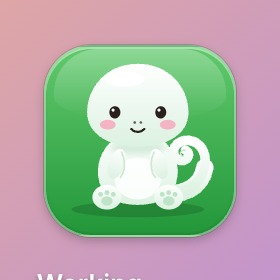
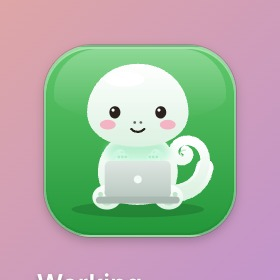
Spec 016: the gecko types at a little laptop, and waits impatiently
Working, it sits at a tiny laptop low in front of it, paws on the keys in turn, nodding and now and then glancing at the screen. Waiting, now and then a slow blink and a burst of foot taps with a small sway, so it says it waits for you without moving all the time.

Changed region(s): [[0.3429, 0.5143, 0.6571, 0.7429]]

diff --git a/client/src/renderer/src/gecko/Gecko.tsx b/client/src/renderer/src/gecko/Gecko.tsx
@@ -42,6 +42,16 @@ function Sole({ x, y }: { readonly x: number; readonly y: number }): React.JSX.E
   )
 }
 
+/** A paw on the laptop's keys, seen over the lid while it types. */
+function Typing({ x, skin }: { readonly x: number; readonly skin: string }): React.JSX.Element {
+  return (
+    <g className="gk-typing">
+      <circle cx={x} cy="64.4" r="3.1" fill="#fff" />
+      {[-1.6, 0, 1.6].map((dx) => <circle key={dx} cx={x + dx} cy="63.2" r="0.6" fill={PAD} />)}
+    </g>
+  )
+}
+
 /** The gecko in the soft, flat style of its reference: white with a mint tint, no outlines, dot eyes, pink blush. Sitting for working, waiting and review; lying on its belly asleep. Each part moves on its own. */
 function Drawing(): React.JSX.Element {
   const id = useId().replace(/[^\w-]/g, '')
@@ -54,6 +64,10 @@ function Drawing(): React.JSX.Element {
         <linearGradient id={`${id}-skin`} x1="0" y1="0" x2="0" y2="1">
           <stop offset="0" stopColor="#ffffff" />
           <stop offset="1" stopColor="#dcf1e1" />
+        </linearGradient>
+        <linearGradient id={`${id}-lid`} x1="0" y1="0" x2="0" y2="1">
+          <stop offset="0" stopColor="#dfe7e3" />
+          <stop offset="1" stopColor="#b9c7c0" />
         </linearGradient>
         <filter id={`${id}-soft`} x="-30%" y="-30%" width="160%" height="160%">
           <feGaussianBlur stdDeviation="1.4" />
@@ -77,16 +91,26 @@ function Drawing(): React.JSX.Element {
                   <g>
                     <ellipse cx="36" cy="81.5" rx="6.6" ry="5.6" fill={skin} />
                     <Sole x={36} y={82} />
-                    <ellipse cx="64" cy="81.5" rx="6.6" ry="5.6" fill={skin} />
-                    <Sole x={64} y={82} />
+                    <g className="gk-heel">
+                      <ellipse cx="64" cy="81.5" rx="6.6" ry="5.6" fill={skin} />
+                      <Sole x={64} y={82} />
+                    </g>
                   </g>
                   <g className="gk-foot gk-foot-l">
                     <ellipse cx="40.4" cy="66.4" rx="3.6" ry="7" fill={skin} transform="rotate(18 40.4 66.4)" />
                     <path d="M42.6 61 C 44.6 65, 44.4 70, 42 72.6" fill="none" stroke="#cfe8d5" strokeWidth="0.8" strokeLinecap="round" />
+                    <Typing x={43} skin={skin} />
                   </g>
                   <g className="gk-foot gk-foot-r">
                     <ellipse cx="59.6" cy="66.4" rx="3.6" ry="7" fill={skin} transform="rotate(-18 59.6 66.4)" />
                     <path d="M57.4 61 C 55.4 65, 55.6 70, 58 72.6" fill="none" stroke="#cfe8d5" strokeWidth="0.8" strokeLinecap="round" />
+                    <Typing x={57} skin={skin} />
+                  </g>
+                  <g className="gk-laptop">
+                    <ellipse cx="50" cy="61" rx="15" ry="6" fill="#9ff0c4" opacity="0.5" filter={soft} />
+                    <rect x="35" y="65" width="30" height="17" rx="2.6" fill={`url(#${id}-lid)`} />
+                    <circle cx="50" cy="73.4" r="1.8" fill="#f2fbf4" />
+                    <rect x="31" y="81.2" width="38" height="3.2" rx="1.6" fill="#a9b8b0" />
                   </g>
                   <g className="gk-head-pose">
                     <g className="gk-head-look">
@@ -148,6 +172,7 @@ export function GeckoPanel({
   moving = true,
   blinking = false,
   tilting = false,
+  tapping = false,
   hovering = false,
   pressing = false,
   look = { x: 0, y: 0 },
@@ -158,6 +183,8 @@ export function GeckoPanel({
   readonly moving?: boolean
   readonly blinking?: boolean
   readonly tilting?: boolean
+  /** Waiting: a burst of impatient taps of one foot. */
+  readonly tapping?: boolean
   readonly hovering?: boolean
   readonly pressing?: boolean
   readonly look?: Look
@@ -171,6 +198,7 @@ export function GeckoPanel({
     moving ? '' : 'gecko-still',
     blinking ? 'gecko-blink' : '',
     tilting ? 'gecko-tilt' : '',
+    tapping ? 'gecko-tapping' : '',
     hovering ? 'gecko-hover' : '',
     pressing ? 'gecko-press' : '',
   ].filter((one) => one !== '')
@@ -205,10 +233,11 @@ function useSeen(): boolean {
   return seen
 }
 
-/** A blink now and then while its eyes are open, sometimes with a tilt of the head: one short timer at a time, none while asleep or not seen. */
-function useFidget(awake: boolean): { readonly blinking: boolean; readonly tilting: boolean } {
+/** A blink now and then while its eyes are open, sometimes with a tilt of the head; waiting, a slow blink and now and then a burst of impatient foot taps. One short timer at a time, none while asleep or not seen. */
+function useFidget(awake: boolean, waiting: boolean): { readonly blinking: boolean; readonly tilting: boolean; readonly tapping: boolean } {
   const [blinking, setBlinking] = useState(false)
   const [tilting, setTilting] = useState(false)
+  const [tapping, setTapping] = useState(false)
   useEffect(() => {
     if (!awake) return
     let timer: ReturnType<typeof setTimeout>
@@ -216,16 +245,19 @@ function useFidget(awake: boolean): { readonly blinking: boolean; readonly tilti
       timer = setTimeout(
         () => {
           if (still()) return next()
-          const tilt = Math.random() < 0.35
+          const tilt = !waiting && Math.random() < 0.35
+          const tap = waiting && Math.random() < 0.6
           setBlinking(true)
           setTilting(tilt)
+          setTapping(tap)
           timer = setTimeout(() => {
             setBlinking(false)
             timer = setTimeout(() => {
               setTilting(false)
+              setTapping(false)
               next()
-            }, tilt ? 900 : 0)
-          }, 160)
+            }, tap ? 1000 : tilt ? 900 : 0)
+          }, waiting ? 420 : 160)
         },
         2500 + Math.random() * 4000,
       )
@@ -235,9 +267,10 @@ function useFidget(awake: boolean): { readonly blinking: boolean; readonly tilti
       clearTimeout(timer)
       setBlinking(false)
       setTilting(false)
+      setTapping(false)
     }
-  }, [awake])
-  return { blinking, tilting }
+  }, [awake, waiting])
+  return { blinking, tilting, tapping }
 }
 
 /** Where the cursor is from the gecko's eyes, as a look: the direction, weaker when it is close. */
@@ -258,7 +291,7 @@ export function Gecko(): React.JSX.Element | null {
   const [pressing, setPressing] = useState(false)
   const [look, setLook] = useState<Look>({ x: 0, y: 0 })
   const seen = useSeen()
-  const { blinking, tilting } = useFidget(seen && view !== undefined && view.pose !== 'asleep')
+  const { blinking, tilting, tapping } = useFidget(seen && view !== undefined && view.pose !== 'asleep', view?.pose === 'waiting')
   const held = useRef<{ x: number; y: number; left: number; top: number; moved: boolean } | undefined>(undefined)
 
   useEffect(() => {
@@ -335,6 +368,7 @@ export function Gecko(): React.JSX.Element | null {
         moving={seen}
         blinking={blinking}
         tilting={tilting}
+        tapping={tapping}
         hovering={hovering}
         pressing={pressing}
         look={look}

diff --git a/client/src/renderer/src/styles.css b/client/src/renderer/src/styles.css
@@ -12372,7 +12372,27 @@ button.manager-step-head:hover > svg {
   animation: gk-peek-shut 1.8s ease-in-out;
 }
 
-/* Working: sitting, its front paws tapping in turn as if typing, nodding to the beat, the tail swaying behind. */
+/* Working: at a little laptop in front of it, its paws on the keys in turn, nodding to the beat, now and then glancing down at the screen, the tail swaying behind. */
+.gk-laptop,
+.gk-typing {
+  opacity: 0;
+  transition: opacity 300ms;
+}
+
+.gecko-working .gk-laptop,
+.gecko-working .gk-typing {
+  opacity: 1;
+}
+
+.gecko-working.gecko-hop .gk-laptop,
+.gecko-working.gecko-hop .gk-typing {
+  opacity: 0;
+}
+
+.gecko-working .gk-head {
+  animation: gk-glance 4.8s ease-in-out infinite;
+}
+
 .gecko-working .gk-foot-l,
 .gecko-working .gk-foot-r {
   animation: gk-tap 560ms ease-in-out infinite;
@@ -12404,11 +12424,29 @@ button.manager-step-head:hover > svg {
 }
 
 .gecko-waiting .gk-bob {
-  animation: gk-bounce 1.4s var(--gk-spring) 3;
+  animation: gk-bounce 1.4s var(--gk-spring);
 }
 
-.gecko-waiting .gk-tail {
-  animation: gk-swing 1.4s ease-in-out 200ms 3;
+/* Now and then, impatient: one foot taps three times while it sways and the tail swings. */
+.gk-art .gk-heel {
+  transform-origin: 60px 86px;
+}
+
+.gecko-waiting.gecko-tapping .gk-heel {
+  animation: gk-heel 330ms ease-in-out 3;
+}
+
+.gecko-waiting.gecko-tapping .gk-sit {
+  animation: gk-sway 1s ease-in-out;
+}
+
+.gecko-waiting.gecko-tapping .gk-tail {
+  animation: gk-swing 1s ease-in-out 120ms;
+}
+
+/* Its blinks are slow while it waits. */
+.gecko-waiting .gk-art .gk-dot {
+  transition-duration: 220ms;
 }
 
 /* Review: a happy hop with its paws up and happy eyes, squashed on landing, the tail flicking. */
@@ -12528,6 +12566,42 @@ button.manager-step-head:hover > svg {
   }
   25% {
     transform: translateY(-2.5px) rotate(-8deg);
+  }
+}
+
+@keyframes gk-glance {
+  0%,
+  62%,
+  92%,
+  100% {
+    transform: none;
+  }
+  70%,
+  84% {
+    transform: translateY(1.6px) rotate(-3deg);
+  }
+}
+
+@keyframes gk-heel {
+  0%,
+  100% {
+    transform: none;
+  }
+  50% {
+    transform: rotate(-16deg);
+  }
+}
+
+@keyframes gk-sway {
+  0%,
+  100% {
+    transform: none;
+  }
+  30% {
+    transform: rotate(-2.5deg);
+  }
+  70% {
+    transform: rotate(2.5deg);
   }
 }
 

diff --git a/client/src/renderer/src/gecko-preview.tsx b/client/src/renderer/src/gecko-preview.tsx
@@ -71,6 +71,7 @@ function Live(): React.JSX.Element {
   const [at, setAt] = useState(0)
   const [hopping, setHopping] = useState(false)
   const [blinking, setBlinking] = useState(false)
+  const [tapping, setTapping] = useState(false)
   const [hovering, setHovering] = useState(false)
   const [pressing, setPressing] = useState(false)
   const [look, setLook] = useState({ x: 0, y: 0 })
@@ -82,7 +83,7 @@ function Live(): React.JSX.Element {
       setAt(now)
       setHopping(cycle[now] === 'review')
     }, 3500)
-    const blink = setInterval(() => { setBlinking(true); setTimeout(() => setBlinking(false), 160) }, 2300)
+    const blink = setInterval(() => { setBlinking(true); setTapping(true); setTimeout(() => setBlinking(false), 300); setTimeout(() => setTapping(false), 1200) }, 2300)
     const follow = (event: MouseEvent): void => {
       const box = held.current?.getBoundingClientRect()
       if (box === undefined) return
@@ -98,7 +99,7 @@ function Live(): React.JSX.Element {
   const state = cycle[at] ?? 'asleep'
   const pose = state === 'review' ? 'working' : state
   return <div ref={held} className="gecko-float gecko-live" onPointerEnter={() => setHovering(true)} onPointerLeave={() => setHovering(false)} onClick={() => { setPressing(true); setTimeout(() => setPressing(false), 170) }}>
-    <GeckoPanel pose={pose} count={state === 'waiting' ? 2 : 0} hopping={hopping} blinking={blinking && pose !== 'asleep'} hovering={hovering} pressing={pressing} look={look} onHopped={() => setHopping(false)} />
+    <GeckoPanel pose={pose} count={state === 'waiting' ? 2 : 0} hopping={hopping} blinking={blinking && pose !== 'asleep'} tapping={tapping && pose === 'waiting'} hovering={hovering} pressing={pressing} look={look} onHopped={() => setHopping(false)} />
   </div>
 }
 

diff --git a/docs/design/gecko.md b/docs/design/gecko.md
@@ -11,7 +11,7 @@ Alex chose **C, the glass tile**, on 2026-10-28, and later the same day moved th
 - **Placement.** Its own window: frameless, transparent, always on top (`floating` level), on every desktop (`setVisibleOnAllWorkspaces` without the full screen spaces, which would take GeckIt's Dock icon away), not in the Dock, the taskbar or the window switcher (`skipTaskbar`, `focusable: false`), never taking the keyboard, clicks accepted without activating (`acceptFirstMouse`). 108 px square: a 96 px tile plus room for its shadow. First at the top right of the main display, 24 px in; dragged, the position is kept in `geckoBounds` in settings. Switched off or with the screen locked there is no window at all.
 - **Tile, not glass.** The gecko sits on the app icon's green tile (`#62c96d` to `#23963a`, 24 px corners, a soft top shine, a light edge and a small shadow), drawn by the page the same on every system and in light and dark. The glass panel was tried with this drawing too and dropped: a white gecko on light glass nearly disappears in light mode and only reads on dark, while on the green tile it reads in both and is the reference's own look. macOS vibrancy is no longer used, since an opaque tile covers it.
 - **The gecko.** Drawn in `client/src/renderer/src/gecko/Gecko.tsx` as one SVG of parts, flat and soft as Mochi is: no outlines, white with a light mint tint (`#ffffff` to `#dcf1e1`), a big round head a little wider than tall with a highlight, two tiny nostril dots, small solid dark dot eyes set wide (`#2b211c`) with a white glint, pink oval blush (`#f6a8bc`), a tiny smile, a round body with a white belly, short front paws, back feet turned to the person with a big pad and three toe pads in darker mint (`#bfe3c8`), a tail ending in a spiral curl, a soft green shadow under it. Faint mint lines separate the paws from the body. The mouth has three shapes (smile, "o", happy), each eye three (the dot, the shut arc, the happy arc). Asleep it is a second drawing of the same gecko lying on its belly, chin on its front paws, cross-faded with the sitting one.
-- **Motion.** CSS keyframes and transitions on the parts' transforms and opacity only, each part turning about its own joint: springy easing (`cubic-bezier(0.34, 1.56, 0.64, 1)`), squash and stretch on the hop, the press and the bounce, the tail a beat behind. Working: the front paws tap in turn as if typing (560 ms), the head nods to the beat, the tail sways, without end. Asleep: lying down, eyes shut arcs; the back rises and falls eight times (4.2 s each) and the tail tip twitches four times, then still. Waiting: the head up and 3% larger, the "o" mouth, three bounces of 1.4 s; the orange count pops in. Review: a 0.9 s hop 6 units high with paws up, happy arc eyes and mouth, a squash on take-off and landing, the shadow shrinking under it, the tail flicking. Blinks every 2.5 to 6.5 s (the dots flatten), a third with an 8 degree head tilt. Hover: looks straight out and wiggles; asleep, one eye opens and shuts. Press: a 170 ms squash, then GeckIt comes forward.
+- **Motion.** CSS keyframes and transitions on the parts' transforms and opacity only, each part turning about its own joint: springy easing (`cubic-bezier(0.34, 1.56, 0.64, 1)`), squash and stretch on the hop, the press and the bounce, the tail a beat behind. Working: it sits at a tiny light grey laptop placed low in front of it, a mint glow from the screen on its chest, its paws on the keys over the lid tapping in turn (560 ms), the head nodding to the beat and every 4.8 s glancing down at the screen, the tail swaying, without end. Asleep: lying down, eyes shut arcs; the back rises and falls eight times (4.2 s each) and the tail tip twitches four times, then still. Waiting: the head up and 3% larger, the "o" mouth, one bounce as it sits up; the orange count pops in. Then, at the blink timer's moments (every 2.5 to 6.5 s), a slow blink and, six times in ten, a burst of impatience: one back foot taps three times while it sways and the tail swings, about a second, then it is still again. Review: a 0.9 s hop 6 units high with paws up, happy arc eyes and mouth, a squash on take-off and landing, the shadow shrinking under it, the tail flicking. Blinks every 2.5 to 6.5 s (the dots flatten), a third with an 8 degree head tilt. Hover: looks straight out and wiggles; asleep, one eye opens and shuts. Press: a 170 ms squash, then GeckIt comes forward.
 - **The eyes follow the cursor.** Main reads `screen.getCursorScreenPoint()` ten times a second while the cursor moves and once a second after it has rested two seconds, and tells the panel only when it moved; the page turns that into a direction from its eyes, weaker within 240 px, which moves the dot eyes inside the face up to 2 units and the head up to 4 degrees.
 - **Reduced motion and not seen.** Reduced motion keeps the still pose of each state (no keyframes, no hop, no blinks, no wiggle or squash); the eyes still follow. A hidden page holds still too.
 - **Tray.** Unchanged from the tile build: `client/assets/tray{Asleep,Working,Waiting}Template.png` and `@2x`, rendered from `tray-c-*.svg` at 18 and 36 px. macOS only; Windows and Linux keep the colour app icon. Switched off, the tray goes back to `trayTemplate.png`. Seen composed on a [light bar](gecko/build-c-tray-light.jpg) and a [dark bar](gecko/build-c-tray-dark.jpg), not in the real menu bar.

diff --git a/specs/016-gecko-character/ux.md b/specs/016-gecko-character/ux.md
@@ -23,8 +23,8 @@ Today the person has to read the board's cards to learn whether anything needs t
 | State | When | What the person sees | What they do |
 |---|---|---|---|
 | asleep | nothing working, nothing waiting | lying on its belly, chin on its front paws, eyes shut arcs; the back rises and falls a few times and the tail tip twitches, then it lies still | nothing; it is safe to look away |
-| working | at least one working, none waiting | sitting, front paws tapping in turn as if typing, the head nodding to the beat, the tail swaying behind | nothing; Claude is busy |
-| waiting | at least one asking, finished and unread, or a command after ! waiting to be typed into | it sits up and looks straight at the person with an \"o\" mouth, and bounces gently three times; the orange count pops in from 2 | press the gecko to open the conversation that has waited longest |
+| working | at least one working, none waiting | sitting at a tiny laptop in front of it, paws tapping the keys in turn, the head nodding, now and then glancing down at the screen, the tail swaying behind | nothing; Claude is busy |
+| waiting | at least one asking, finished and unread, or a command after ! waiting to be typed into | it sits up and looks straight at the person with an \"o\" mouth; now and then a slow blink and a burst of impatient foot taps with a small sway; the orange count pops in from 2 | press the gecko to open the conversation that has waited longest |
 | review | a card has just moved to In review | a happy hop of about 0.9 s with paws up and happy arc eyes, squashed on landing, the tail flicking; then the state below returns | look at In review when convenient |
 
 Waiting wins over working; review is a one-off on top of whichever of the other three holds.
@@ -104,7 +104,7 @@ A card moving to In review while something waits does not interrupt waiting: the
 - Count shown from 2: one waiting conversation needs no number, the pose says it.
 - Blinks every 2.5 to 6.5 s, a third of them with a head tilt of 0.9 s.
 - The cursor is read by main ten times a second while it moves, once a second after it has rested two seconds, and never without a panel; the panel is told only when it moved.
-- What runs without end: only the working state's bob, taps and tail. Asleep breathes eight times (about 34 s) and waiting bounces three times, then they hold still apart from blinks, so a panel left sleeping or waiting all day costs nothing (measured below).
+- What runs without end: only the working state's typing, nod, glance and tail. Asleep breathes eight times (about 34 s) and waiting moves only in short bursts at the blink timer's moments (a slow blink, sometimes a second of foot taps), then holds still, so a panel left sleeping or waiting all day costs nothing (measured below).
 
 ## Wording
 
